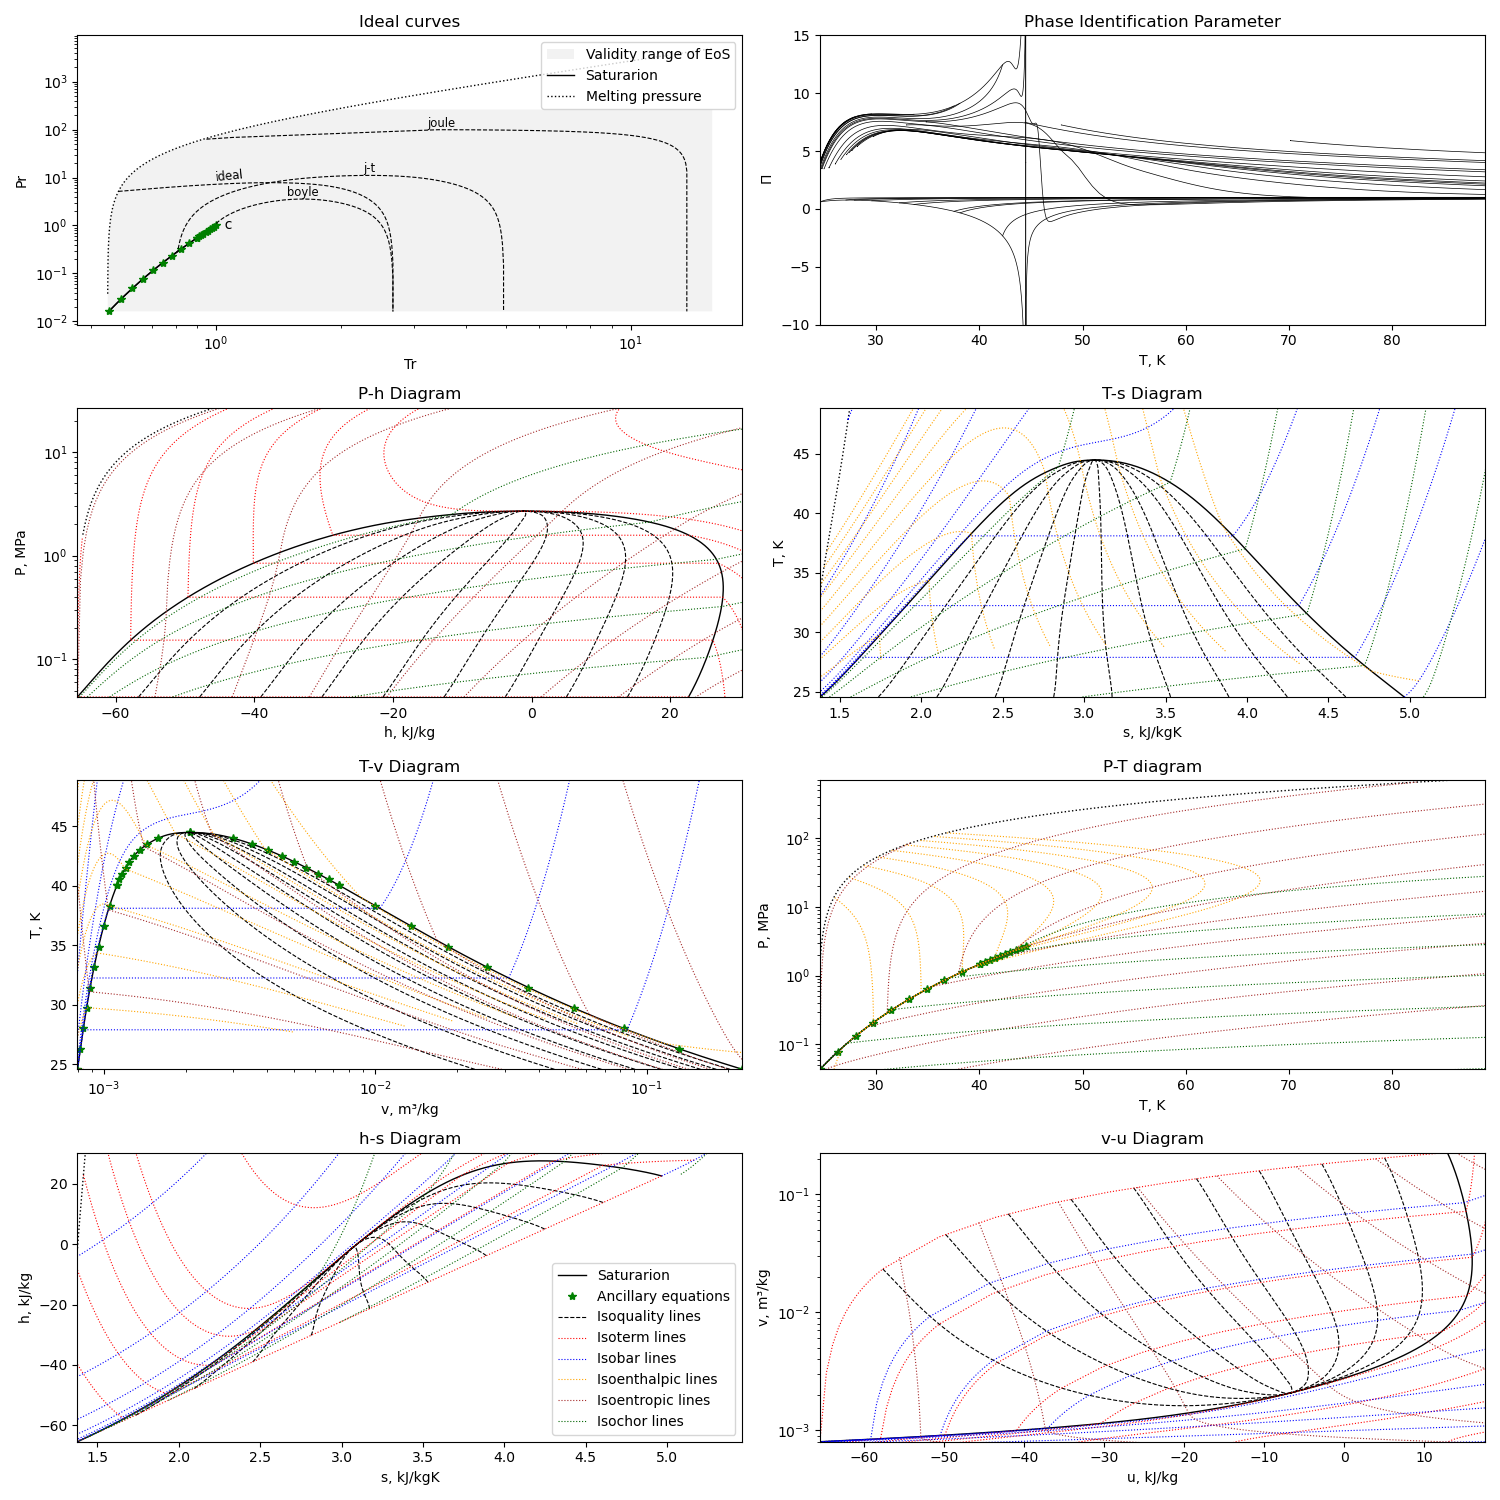
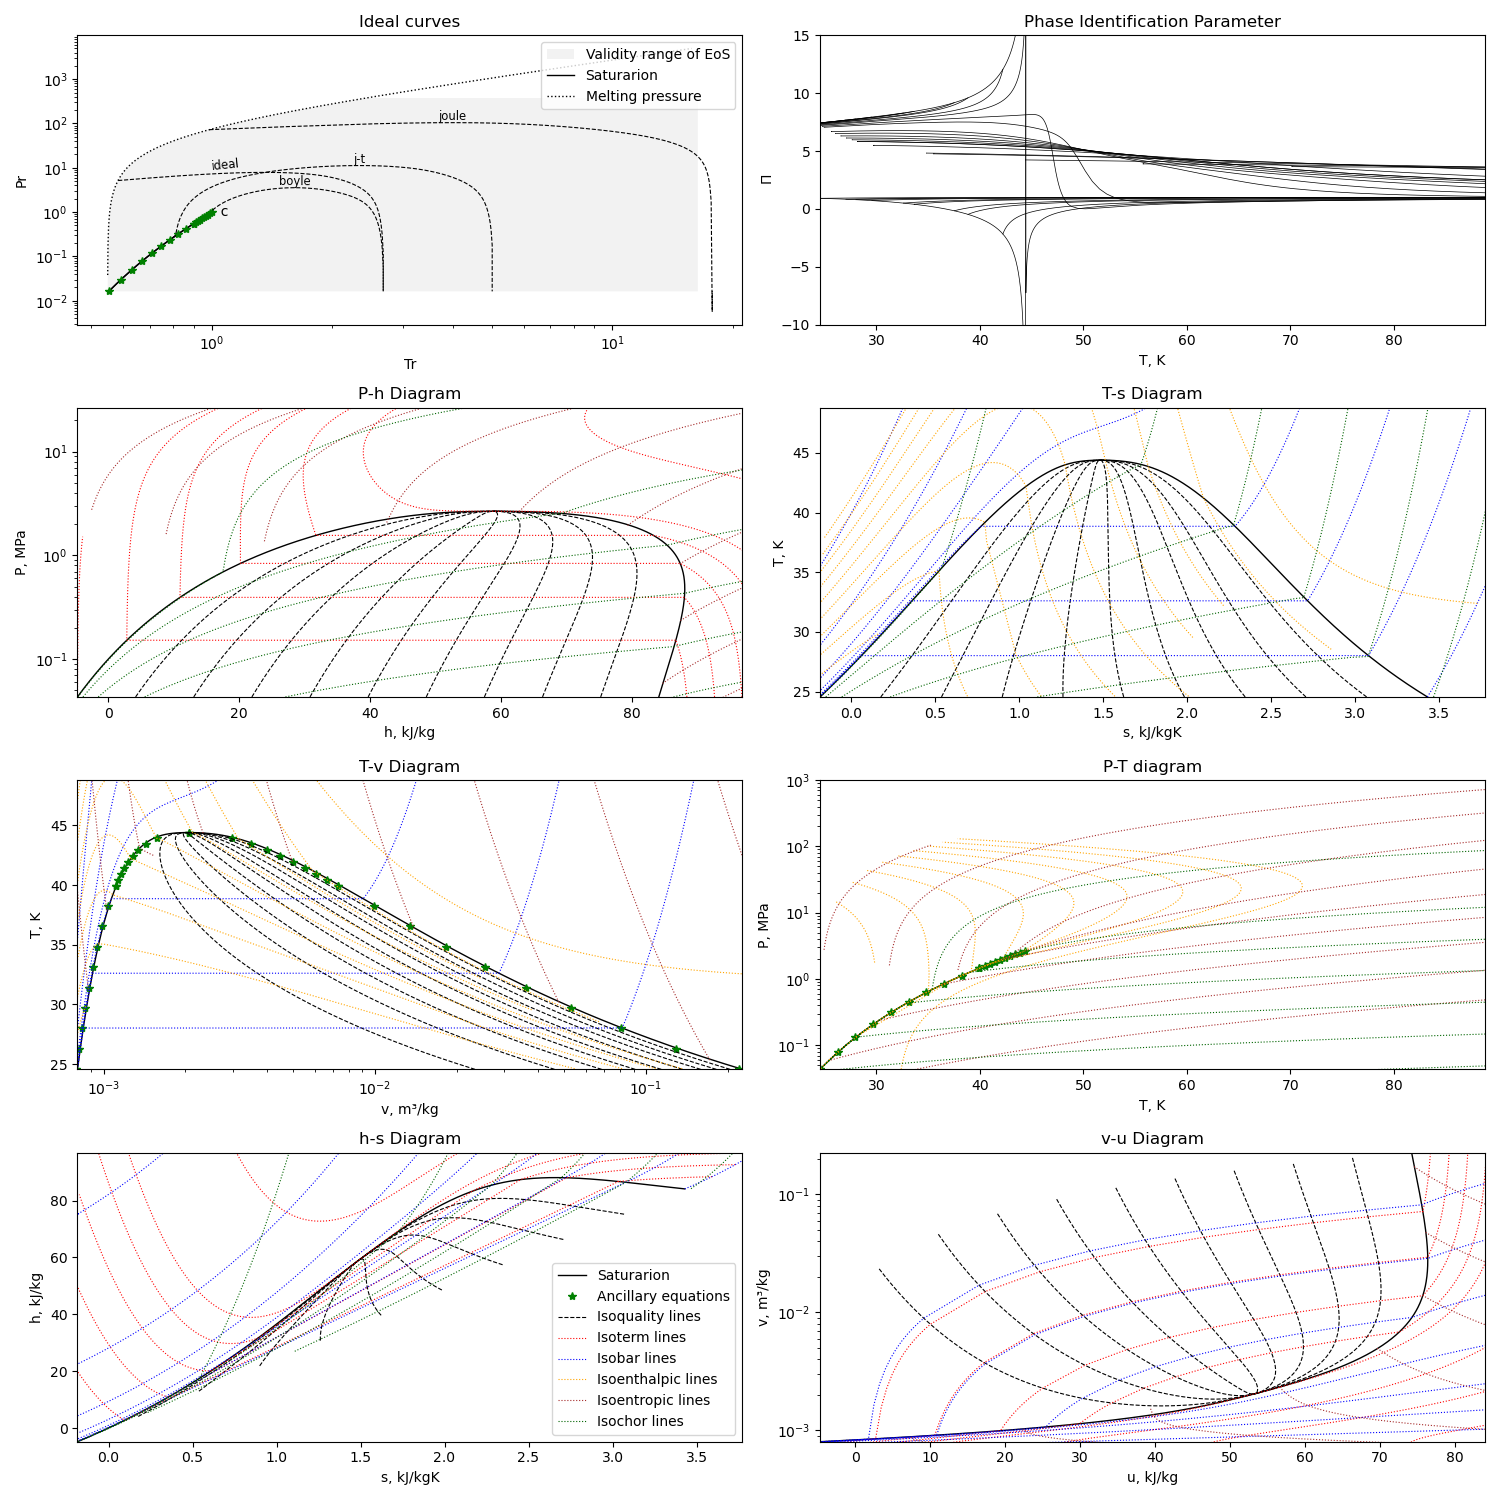
Add refprop10 mEoS for neon including updated documentation image

diff --git a/lib/mEoS/CH4.py b/lib/mEoS/CH4.py
@@ -72,13 +72,13 @@ class CH4(MEoS):
         "__type__": "Helmholtz",
         "__name__": "Helmholtz equation of state for methane of Setzmann and "
                     "Wagner (1991)",
-        "__doi__": {"autor": "Setzmann, U., Wagner, W.",
-                    "title": "A New Equation of State and Tables of "
-                             "Thermodynamic Properties for Methane Covering "
-                             "the Range from the Melting Line to 625 K at "
-                             "Pressures up to 1000 MPa",
-                    "ref": "J. Phys. Chem. Ref. Data, 20(6) (1991) 1061-1155",
-                    "doi": "10.1063/1.555898"},
+        "__doi__": {
+            "autor": "Setzmann, U., Wagner, W.",
+            "title": "A New Equation of State and Tables of Thermodynamic "
+                     "Properties for Methane Covering the Range from the "
+                     "Melting Line to 625 K at Pressures up to 1000 MPa",
+            "ref": "J. Phys. Chem. Ref. Data, 20(6) (1991) 1061-1155",
+            "doi": "10.1063/1.555898"},
 
         "R": 8.31451,
         "cp": Fi1,
@@ -122,12 +122,12 @@ class CH4(MEoS):
         "__type__": "MBWR",
         "__name__": "MBWR equation of state for ethane of Younglove and Ely "
                     "(1987)",
-        "__doi__": {"autor": "Younglove, B.A., Ely, J.F.",
-                    "title": "Thermophysical Properties of Fluids. II. "
-                             "Methane, Ethane, Propane, Isobutane, and Normal "
-                             "Butane",
-                    "ref": "J. Phys. Chem. Ref. Data 16(4) (1987) 577-798",
-                    "doi": "10.1063/1.555785"},
+        "__doi__": {
+            "autor": "Younglove, B.A., Ely, J.F.",
+            "title": "Thermophysical Properties of Fluids. II. Methane, "
+                     "Ethane, Propane, Isobutane, and Normal Butane",
+            "ref": "J. Phys. Chem. Ref. Data 16(4) (1987) 577-798",
+            "doi": "10.1063/1.555785"},
 
         "Tmin": 90.68, "Tmax": 600.0, "Pmax": 200000.0, "rhomax": 36.2029,
 
@@ -151,12 +151,13 @@ class CH4(MEoS):
         "__type__": "Helmholtz",
         "__name__": "Helmholtz equation of state for methane of Kunz and "
                     "Wagner (2004).",
-        "__doi__": {"autor": "Kunz, O., Wagner, W.",
-                    "title": "The GERG-2008 Wide-Range Equation of State for "
-                             "Natural Gases and Other Mixtures: An Expansion "
-                             "of GERG-2004",
-                    "ref": "J. Chem.Eng. Data 57(11) (2012) 3032-3091",
-                    "doi": "10.1021/je300655b"},
+        "__doi__": {
+            "autor": "Kunz, O., Wagner, W.",
+            "title": "The GERG-2008 Wide-Range Equation of State for Natural "
+                     "Gases and Other Mixtures: An Expansion of GERG-2004",
+            "ref": "J. Chem.Eng. Data 57(11) (2012) 3032-3091",
+            "doi": "10.1021/je300655b"},
+
         "R": 8.314472,
         "cp": Fi2,
         "ref": "OTO",

diff --git a/lib/mEoS/Ne.py b/lib/mEoS/Ne.py
@@ -36,9 +36,9 @@ class Ne(MEoS):
     synonym = "R-720"
     _refPropName = "NEON"
     _coolPropName = "Neon"
-    rhoc = unidades.Density(481.914888)
-    Tc = unidades.Temperature(44.4918)
-    Pc = unidades.Pressure(2678.6, "kPa")
+    rhoc = unidades.Density(486.3139)
+    Tc = unidades.Temperature(44.4)
+    Pc = unidades.Pressure(2661.63, "kPa")
     M = 20.179  # g/mol
     Tt = unidades.Temperature(24.556)
     Tb = unidades.Temperature(27.104)
@@ -47,6 +47,42 @@ class Ne(MEoS):
     id = 107
 
     CP1 = {"ao": 2.5}
+
+    refprop = {
+        "__type__": "Helmholtz",
+        "__name__": "Helmholtz equation of state for Neon (2022)",
+        "__doi__": {
+            "autor": "Huber, M.L., Lemmon, E.W., Bell, I.H., McLinden, M.O.",
+            "title": "The NIST REFPROP Database for Highly Accurate Properties"
+                     " of Industrially Importants Fluids",
+            "ref": "Ind. Eng. Chem. Res. 61(42) (2022) 15449-15472",
+            "doi": "10.1021/acs.iecr.2c01427"},
+
+        "R": 8.3144598,
+        "cp": CP1,
+        "ref": "NBP",
+
+        "Tmin": Tt, "Tmax": 725.0, "Pmax": 1000000.0, "rhomax": 155.57,
+
+        "nr1": [0.031522418, 3.7716418, -4.27399448, -0.756466758, .066679921],
+        "d1": [4.0, 1.0, 1.0, 2.0, 3.0],
+        "t1": [1.0, 0.431, 0.592, 1.105, 0.49],
+
+        "nr2": [-0.356928434, -0.053124761, 0.9407234, -0.969302374,
+                0.461243234, 0.008184422],
+        "d2": [1.0, 3.0, 2.0, 2.0, 4.0, 7.0],
+        "t2": [2.3, 3.18, 1.36, 2.0, 0.5, 1.12],
+        "c2": [2.0, 2.0, 1.0, 2.0, 1.0, 1.0],
+        "gamma2": [1]*6,
+
+        "nr3": [7.84771604, 6.39604094, -1.27480579, -5.51887999, -8.76652276,
+                -0.351732709],
+        "d3": [1.0, 1.0, 3.0, 2.0, 1.0, 2.0],
+        "t3": [0.41, 0.64, 0.579, 0.6, 0.52, 0.655],
+        "alfa3": [0.76, 2.126, 2.168, 2.033, 0.743, 4.38],
+        "beta3": [0.537, 0.765, 0.883, 0.751, 0.531, 11.4],
+        "gamma3": [1.997, 1.782, 1.663, 1.837, 1.953, 1.658],
+        "epsilon3": [0.5775, 0.9137, 0.7895, 0.6229, 0.4992, 0.869]}
 
     katti = {
         "__type__": "Helmholtz",
@@ -83,7 +119,7 @@ class Ne(MEoS):
         "c2": [3, 2, 2, 4, 6, 6, 2, 2, 2, 2, 2],
         "gamma2": [1]*11}
 
-    eq = (katti, )
+    eq = (refprop, katti)
 
     _surface = {"sigma": [0.012254, 0.02728, -0.025715],
                 "exp": [1.4136, 1.4517, 1.6567]}
@@ -184,7 +220,5 @@ class Test(TestCase):
     def test_Huber(self):
         """Table 7, pag 266"""
         st = Ne(T=40, rhom=45.956)
-        # self.assertEqual(round(st.mu.muPas, 5), 46.73723)
-        # self.assertEqual(round(st.k.mWmK, 4), 59.3183)
-        self.assertEqual(round(st.mu.muPas, 5), 46.58067)
-        self.assertEqual(round(st.k.mWmK, 4), 59.2589)
+        self.assertEqual(round(st.mu.muPas, 5), 46.73723)
+        self.assertEqual(round(st.k.mWmK, 4), 59.3180)

diff --git a/lib/mEoS/N2.py b/lib/mEoS/N2.py
@@ -77,14 +77,14 @@ class N2(MEoS):
     span = {
         "__type__": "Helmholtz",
         "__name__": "Helmholtz equation of state for nitrogen of Span (2000)",
-        "__doi__": {"autor": "Span, R., Lemmon, E.W., Jacobsen, R.T, Wagner, "
-                             "W., Yokozeki, A.",
-                    "title": "A Reference Equation of State for the "
-                             "Thermodynamic Properties of Nitrogen for "
-                             "Temperatures from 63.151 to 1000 K and "
-                             "Pressures to 2200 MPa",
-                    "ref": "J. Phys. Chem. Ref. Data 29(6) (2000) 1361-1433",
-                    "doi": "10.1063/1.1349047"},
+        "__doi__": {
+            "autor": "Span, R., Lemmon, E.W., Jacobsen, R.T, Wagner, W., "
+                     "Yokozeki, A.",
+            "title": "A Reference Equation of State for the Thermodynamic "
+                     "Properties of Nitrogen for Temperatures from 63.151 to "
+                     "1000 K and Pressures to 2200 MPa",
+            "ref": "J. Phys. Chem. Ref. Data 29(6) (2000) 1361-1433",
+            "doi": "10.1063/1.1349047"},
 
         "R": 8.31451,
         "cp": Fi1,
@@ -185,10 +185,7 @@ class N2(MEoS):
         "t2": [0.625, 2.625, 2.75, 2.125, 2, 1.75, 4.5, 4.75, 5, 4, 4.5, 7.5,
                14, 11.5, 26, 28, 30, 16],
         "c2": [1, 1, 1, 1, 1, 1, 2, 2, 2, 2, 2, 3, 3, 3, 6, 6, 6, 6],
-        "gamma2": [1]*18,
-
-        "nr3": [],
-        "nr4": []}
+        "gamma2": [1]*18}
 
     jacobsen = {
         "__type__": "Helmholtz",
@@ -252,10 +249,7 @@ class N2(MEoS):
         "d2": [2, 5, 1, 4, 3, 4],
         "t2": [0.625, 1.75, 3.625, 3.625, 14.5, 12],
         "c2": [1, 1, 2, 2, 3, 3],
-        "gamma2": [1]*6,
-
-        "nr3": [],
-        "nr4": []}
+        "gamma2": [1]*6}
 
     sun = {
         "__type__": "Helmholtz",

diff --git a/lib/mEoS/MEA.py b/lib/mEoS/MEA.py
@@ -50,7 +50,7 @@ class MEA(MEoS):
 
     refprop = {
         "__type__": "Helmholtz",
-        "__name__": "Helmholtz equation of state for 1,3-butadiene (2022)",
+        "__name__": "Helmholtz equation of state for Monoethanolamine (2022)",
         "__doi__": {
             "autor": "Huber, M.L., Lemmon, E.W., Bell, I.H., McLinden, M.O.",
             "title": "The NIST REFPROP Database for Highly Accurate Properties"
